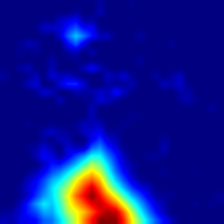
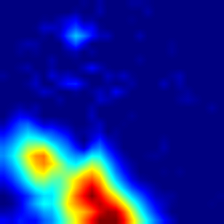
Fixed

diff --git a/optimize.py b/optimize.py
@@ -45,10 +45,12 @@ class Optimize():
     def upsample(self,img):
         if cuda_available():
             upsample=F.interpolate(img,size=(self.original_img.size(2), \
-                                    self.original_img.size(3)),mode='bilinear').cuda()
+                                    self.original_img.size(3)),mode='bilinear'\
+                                   ,align_corners=False).cuda()
         else:
             upsample = F.interpolate(img, size=(self.original_img.size(2), \
-                                                self.original_img.size(3)),mode='bilinear')
+                                    self.original_img.size(3)),mode='bilinear'\
+                                     ,align_corners=False)
         return upsample
     def build(self):
 
@@ -72,7 +74,7 @@ class Optimize():
             mask_img=torch.mul(upsampled_mask,self.original_img)+torch.mul((1-upsampled_mask),\
                                                                           self.perturbed_img)
 
-            mask_output=torch.nn.Softmax()(self.model(mask_img))
+            mask_output=torch.nn.Softmax(dim=1)(self.model(mask_img))
             mask_prob =mask_output[0,class_index]
 
             loss=self.l1_coeff*torch.mean(1-torch.abs(mask))+\

diff --git a/utils.py b/utils.py
@@ -45,12 +45,7 @@ def image_preprocessing(img):
         img=preprocess(img).cuda()
     else:
         img=preprocess(img)
-    """
-    img=img.view(224,224,3).data.cpu().numpy()
-    cv2.imshow('img',img)
-    cv2.waitKey(0)
-    cv2.destroyAllWindows()
-    """
+
     img.unsqueeze_(0)
 
     return img
